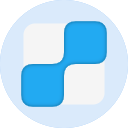
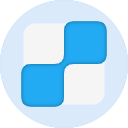
app zoom

diff --git a/src/view/popup.html b/src/view/popup.html
@@ -52,7 +52,7 @@
                         color themes
                     </div>
                     <hr aria-hidden="true">
-                    <div role="menuitem" class="menu-special menu-zoom-app"><i class="icon-zoom-app"></i>Zoom<span></span><button class="const-color" type="button" data-value="zoom-app-minus" title="-5%"><i class="icon-minus"></i></button><button class="const-color" type="button" data-value="zoom-app-plus" title="+5%"><i class="icon-plus"></i></button></div>
+                    <div role="menuitem" class="menu-special menu-zoom-app"><i class="icon-zoom-app"></i>Zoom<span></span><button class="zoom-app-minus" type="button" title="-5%"><i class="icon-minus"></i></button><button class="zoom-app-plus" type="button" title="+5%"><i class="icon-plus"></i></button></div>
                     <hr aria-hidden="true">
                     <div role="menuitem" data-value="settings"><i class="icon-fa-cog"></i>Settings</div>
                 </div>
@@ -109,7 +109,7 @@
                         color themes
                     </div>
                     <hr aria-hidden="true">
-                    <div role="menuitem" class="menu-special menu-zoom-app"><i class="icon-zoom-app"></i>Zoom<span></span><button class="const-color" type="button" data-value="zoom-app-minus" title="-5%"><i class="icon-minus"></i></button><button class="const-color" type="button" data-value="zoom-app-plus" title="+5%"><i class="icon-plus"></i></button></div>
+                    <div role="menuitem" class="menu-special menu-zoom-app"><i class="icon-zoom-app"></i>Zoom<span></span><button class="zoom-app-minus" type="button" title="-5%"><i class="icon-minus"></i></button><button class="zoom-app-plus" type="button" title="+5%"><i class="icon-plus"></i></button></div>
                     <hr aria-hidden="true">
                     <div role="menuitem" data-value="settings"><i class="icon-fa-cog"></i>Settings</div>
                 </div>
@@ -150,7 +150,7 @@
                         color themes
                     </div>
                     <hr aria-hidden="true">
-                    <div role="menuitem" class="menu-special menu-zoom-app"><i class="icon-zoom-app"></i>Zoom<span></span><button class="const-color" type="button" data-value="zoom-app-minus" title="-5%"><i class="icon-minus"></i></button><button class="const-color" type="button" data-value="zoom-app-plus" title="+5%"><i class="icon-plus"></i></button></div>
+                    <div role="menuitem" class="menu-special menu-zoom-app"><i class="icon-zoom-app"></i>Zoom<span></span><button class="zoom-app-minus" type="button" title="-5%"><i class="icon-minus"></i></button><button class="zoom-app-plus" type="button" title="+5%"><i class="icon-plus"></i></button></div>
                     <hr aria-hidden="true">
                     <div role="menuitem" data-value="settings"><i class="icon-fa-cog"></i>Settings</div>
                 </div>

diff --git a/src/multi-sel-pane.ts b/src/multi-sel-pane.ts
@@ -2,14 +2,16 @@ import {
   ColorPalette, Options, Panes, State,
 } from './types';
 import {
-  $$byClass, $$byTag, $byClass, $byTag, addAttr, hasClass, rmClass, addBookmarkFromText,
+  $$, $$byClass, $$byTag, $byClass, $byTag, addAttr, hasClass, rmClass, addBookmarkFromText,
   addClass, addFolder, changeColorTheme, getChildren, setFavColorMenu,
-  showMenu, preShowMenu, setZoomAppMenu,
+  showMenu, preShowMenu,
 } from './client';
 import {
   Changes, Dispatch, IPubSubElement, ISubscribeElement, makeAction, Store, StoreSub,
 } from './popup';
-import { getLocal, pick, setEvents } from './common';
+import {
+  getLocal, pick, setEvents, when,
+} from './common';
 
 export function getSelecteds() {
   return $$byClass('selected');
@@ -42,12 +44,6 @@ function clickMainMenu(e: MouseEvent, store: Store) {
     case 'settings':
       chrome.runtime.openOptionsPage();
       break;
-    case 'zoom-app-minus':
-    case 'zoom-app-plus': {
-      const [,, value] = $menu.dataset.value.split('-');
-      store.dispatch('zoomApp', value as Changes<'zoomApp'>['newValue'], true);
-      break;
-    }
     default:
   }
   if (hasClass($menu, 'fav-palette')) {
@@ -202,7 +198,6 @@ export abstract class MulitiSelectablePaneHeader extends HTMLDivElement implemen
           $mainMenu.classList.add('show');
           showMenu($mainMenu, true)(e);
           getLocal('options').then(({ options }) => setFavColorMenu(options.colorPalette));
-          setZoomAppMenu();
         }
       },
       mousedown(e) {
@@ -215,6 +210,9 @@ export abstract class MulitiSelectablePaneHeader extends HTMLDivElement implemen
       return;
     }
     this.$multiSelPane.selectItems(newValue.count, store.dispatch);
+  }
+  setZoomAppMenu({ newValue }: Changes<'setAppZoom'>) {
+    $$('.menu-zoom-app > span', this.$mainMenu).forEach((el) => Object.assign(el, { textContent: `${Math.round(newValue * 100)}%` }));
   }
   actions() {
     if (hasClass(this, 'end')) {
@@ -230,9 +228,18 @@ export abstract class MulitiSelectablePaneHeader extends HTMLDivElement implemen
           initValue: '' as Panes,
           force: true,
         }),
-        zoomApp: makeAction({
-          initValue: '' as 'plus' | 'minus',
-          force: true,
+        setAppZoom: makeAction({
+          initValue: 1,
+          persistent: true,
+          target: $byClass('menu-zoom-app', this.$mainMenu),
+          eventType: 'click',
+          eventProcesser: (e, currentValue) => {
+            const target = e.target as HTMLElement;
+            const newValue = currentValue + when(hasClass(target, 'zoom-app-plus')).then(0.05)
+              .when(hasClass(target, 'zoom-app-minus')).then(-0.05)
+              .else(0);
+            return (newValue < 0.5 || newValue > 1.6) ? currentValue : newValue;
+          },
         }),
       };
     }

diff --git a/src/app-main.ts b/src/app-main.ts
@@ -29,8 +29,6 @@ import {
   setBrowserFavicon,
   addChild,
   preShowMenu,
-  setZoomAppMenu,
-  updateAppZoom,
 } from './client';
 import {
   makeAction, Changes, IPubSubElement, StoreSub, Store, States,
@@ -125,6 +123,9 @@ export class AppMain extends HTMLElement implements IPubSubElement {
           shiftKey: /Shift/.test(cmd.shortcut!),
           metaKey: /Command/.test(cmd.shortcut!),
         }));
+    });
+    chrome.tabs.setZoomSettings({
+      scope: 'per-tab',
     });
   }
   async keydown({ newValue: e }: Changes<'keydownMain'>, _: any, states: States, store: StoreSub) {
@@ -269,8 +270,9 @@ export class AppMain extends HTMLElement implements IPubSubElement {
     chrome.windows.update(this.#windowId, { state: 'minimized' });
   }
   // eslint-disable-next-line class-methods-use-this
-  setZoomApp(changes: Changes<'zoomApp'>) {
-    updateAppZoom(changes.newValue).then(setZoomAppMenu);
+  setAppZoom({ newValue }: Changes<'setAppZoom'>) {
+    chrome.tabs.setZoom(newValue);
+    $byClass('draggable-clone')!.style.maxWidth = `calc(200px / ${newValue})`;
   }
   actions() {
     return {
@@ -349,6 +351,13 @@ export class AppMain extends HTMLElement implements IPubSubElement {
         return;
       }
       store.dispatch('updateBookmarks');
+    });
+    chrome.tabs.getCurrent().then((tab) => {
+      chrome.tabs.onZoomChange.addListener((changeInfo) => {
+        if (changeInfo.tabId === tab?.id) {
+          store.dispatch('setAppZoom', changeInfo.newZoomFactor);
+        }
+      });
     });
   }
 }

diff --git a/src/client.ts b/src/client.ts
@@ -41,14 +41,13 @@ import {
   updateSettings,
   chromeEventFilter,
   base64Encode,
-  always,
 } from './common';
 
 import { makeLeaf, makeNode } from './html';
 import { Leaf } from './bookmarks';
 import { dialog } from './dialogs';
 import { AppMain } from './app-main';
-import { Changes, Dispatch } from './popup';
+import { Dispatch } from './popup';
 
 // DOM operation
 
@@ -939,27 +938,6 @@ export function setFavColorMenu(colorPalette: ColorPalette) {
       .every(($color, i) => $color.dataset.color === colorPalette[i]));
   $selected?.classList.add('selected-palette');
   ($selected as any)?.scrollIntoViewIfNeeded();
-}
-
-export async function updateAppZoom(value: Changes<'zoomApp'>['newValue']) {
-  return chrome.tabs.getCurrent().then(async (tab) => {
-    if (!tab?.id) {
-      return Promise.reject();
-    }
-    return chrome.tabs.getZoom(tab.id).then((zoom) => {
-      const newZoom = zoom + ((value === 'plus') ? 0.05 : -0.05);
-      return chrome.tabs.setZoom(newZoom).then(always(newZoom));
-    });
-  });
-}
-
-export async function setZoomAppMenu(zoomValue?: number) {
-  const zoom = zoomValue ?? await chrome.tabs.getCurrent()
-    .then((tab) => (tab?.id ? chrome.tabs.getZoom(tab.id) : undefined));
-  if (!zoom) {
-    return;
-  }
-  $('.show .menu-zoom-app > span')!.textContent = `${Math.round(zoom * 100)}%`;
 }
 
 export function scrollVerticalCenter($target: HTMLElement) {

diff --git a/src/store-mapping.ts b/src/store-mapping.ts
@@ -67,10 +67,6 @@ export function storeMapping(options: Options, components: Components) {
     $formSearch.resetQuery.bind($formSearch),
   );
 
-  store.actionContext($headerLeafs, 'zoomApp').map(
-    $appMain.setZoomApp.bind($appMain),
-  );
-
   store.actionContext($formSearch, 'clearSearch').map(
     $leafs.clearSearch.bind($leafs),
     $headerTabs.clearSearch.bind($headerTabs),
@@ -105,6 +101,11 @@ export function storeMapping(options: Options, components: Components) {
   store.actionContext($headerTabs, 'collapseWindowsAll').map(
     $headerTabs.toggleTabCollapsedAll.bind($headerTabs),
     $tabs.toggleTabCollapsedAll.bind($tabs),
+  );
+
+  store.actionContext($headerLeafs, 'setAppZoom').map(
+    $appMain.setAppZoom.bind($appMain),
+    $headerLeafs.setZoomAppMenu.bind($headerLeafs),
   );
 
   // focus subscribe unit

diff --git a/src/settings-layout.ts b/src/settings-layout.ts
@@ -56,9 +56,9 @@ export class LayoutPanes extends CustomInputElement {
   }
   // eslint-disable-next-line class-methods-use-this
   dragover(e: DragEvent) {
-    if (!hasClass(e.target as HTMLElement, 'droppable')) {
-      return;
-    }
+    // if (!hasClass(e.target as HTMLElement, 'droppable')) {
+    //   return;
+    // }
     e.preventDefault();
   }
   dragenter(e: DragEvent) {

diff --git a/src/images/icons-grid6.html b/src/images/icons-grid6.html
@@ -115,7 +115,7 @@
     const width = 600;
     const strokeWidth = 0;
     const gap = 0;
-    const rx = 55;
+    const rx = 45;
     const border = 20;
     const rectWidth = ((width - strokeWidth) - (gap * 2)) / 3 - rx * 2;
     svg.setAttribute('stroke-width', strokeWidth);

diff --git a/src/settings.ts b/src/settings.ts
@@ -320,6 +320,9 @@ function initOthers() {
       });
     }
   });
+  chrome.tabs.setZoomSettings({
+    scope: 'per-tab',
+  });
 }
 
 const init = pipe(
